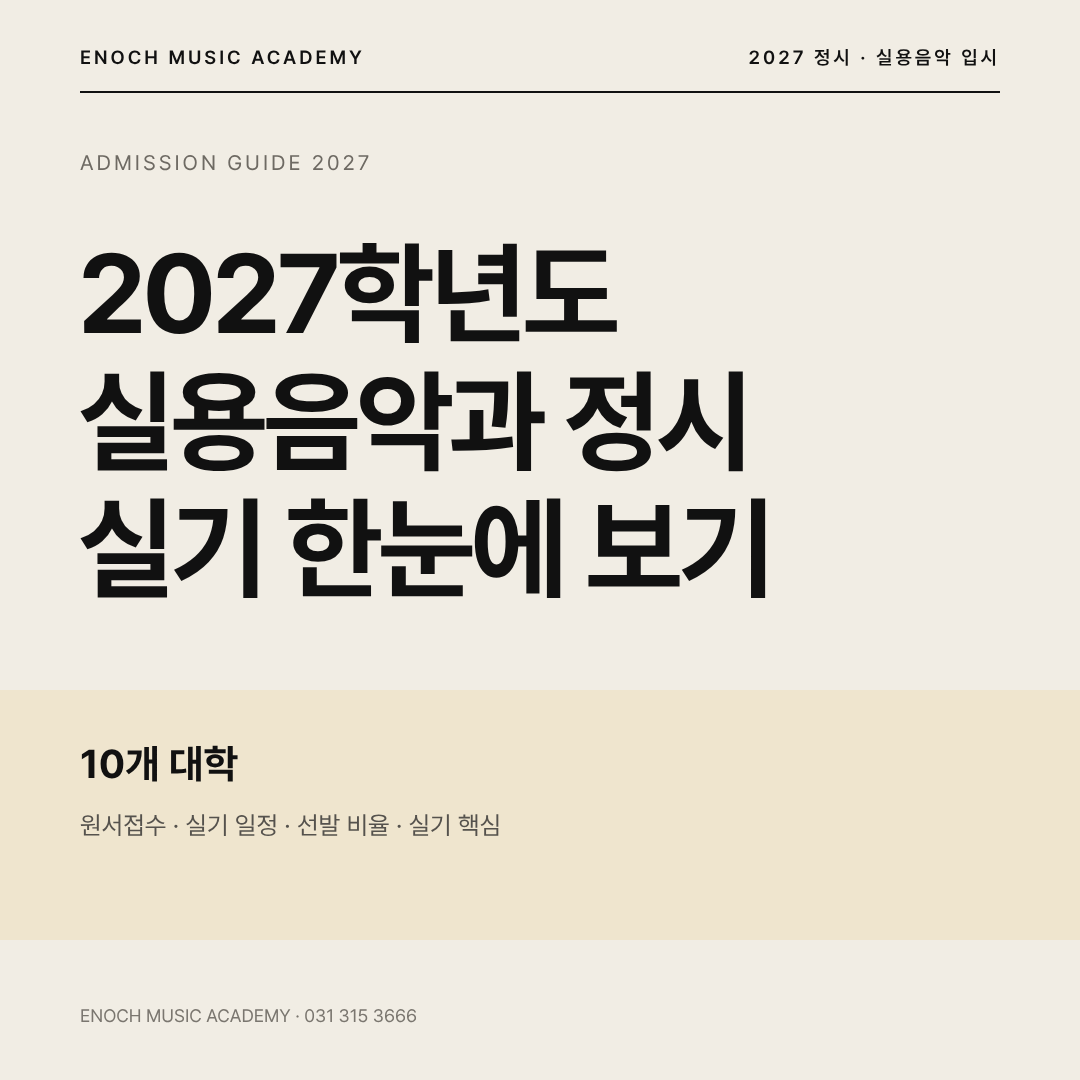
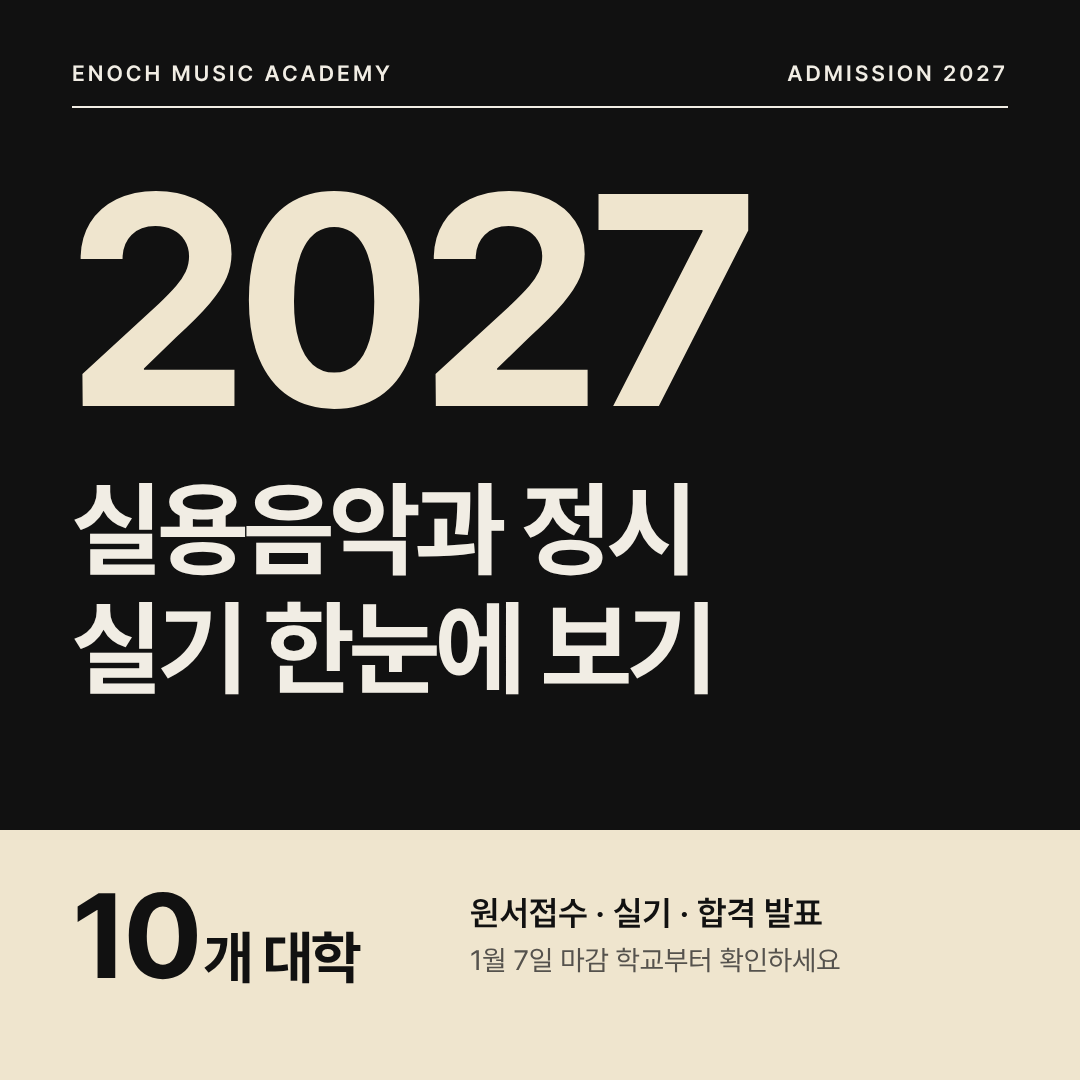
블로그 2027 정시: 눈에 띄는 1:1 썸네일
Claude-Session: https://claude.ai/code/session_01HGbZvgMeYrbU7mY8bwfjyb

diff --git a/output/블로그_2027정시일정/thumb.html b/output/블로그_2027정시일정/thumb.html
@@ -1,41 +1,22 @@
-<!doctype html><html lang="ko"><head><meta charset="utf-8"><title>2027 정시 썸네일</title><style>@font-face{font-family:P;src:url(../../templates/fonts/Pretendard-Light.woff2);font-weight:300}
+<!doctype html><html lang="ko"><head><meta charset="utf-8"><title>2027 정시 썸네일</title>
+<!-- 블로그 썸네일 1:1 — 검색 목록에서 작게 보여도 눈에 띄도록 큰 글자 · 강한 대비 -->
+<style>
 @font-face{font-family:P;src:url(../../templates/fonts/Pretendard-Regular.woff2);font-weight:400}
 @font-face{font-family:P;src:url(../../templates/fonts/Pretendard-SemiBold.woff2);font-weight:600}
 @font-face{font-family:P;src:url(../../templates/fonts/Pretendard-Bold.woff2);font-weight:700}
 *{margin:0;padding:0;box-sizing:border-box}
-body{background:#ccc}
-section{width:1080px;height:1350px;position:relative;overflow:hidden;background:#F1EDE4;color:#111;font-family:P,sans-serif;word-break:keep-all;margin-bottom:20px}
-.hd{position:absolute;left:80px;right:80px;top:46px;display:flex;justify-content:space-between;font-size:19px;font-weight:600;letter-spacing:3px;padding-bottom:22px;border-bottom:2px solid #111}
-.lb{position:absolute;left:80px;font-size:21px;font-weight:400;letter-spacing:3px;color:#6E6A63}
-.band{position:absolute;left:0;right:0;background:#EFE5CE}
-.nt{position:absolute;left:80px;right:80px;bottom:48px;display:flex;justify-content:space-between;align-items:flex-end;font-size:18px;color:#7A766F;line-height:1.7}
-.nt .pg{font-size:19px;letter-spacing:1px}
-/* cover */
-h1.t{position:absolute;left:78px;top:200px;font-size:104px;font-weight:700;letter-spacing:-4px;line-height:1.14}
-.grid{position:absolute;left:80px;right:80px;display:grid;grid-template-columns:1fr 1fr;column-gap:52px}
-.grid div{border-top:1.5px solid #8C877E;padding:14px 0 18px}
-.grid i{display:block;font-style:normal;font-size:16px;letter-spacing:2px;color:#55524D}
-.grid b{display:block;font-size:31px;font-weight:700;letter-spacing:-1px;margin-top:4px}
-.grid span{display:block;font-size:19px;color:#6E6A63;margin-top:4px}
-.sum{position:absolute;left:80px;font-size:25px;font-weight:600}
-/* school */
-.nm{position:absolute;left:78px;right:80px;top:180px;font-size:92px;font-weight:700;letter-spacing:-4px;line-height:1.1}
-.sub{position:absolute;left:80px;right:80px;top:296px;font-size:28px;color:#55524D}
-.dl{position:absolute;left:80px;top:356px;font-size:26px;font-weight:700}
-.dl em{font-style:normal;display:inline-block;width:10px;height:10px;background:#111;margin-right:12px;vertical-align:4px}
-table{position:absolute;left:80px;right:80px;width:920px;border-collapse:collapse}
-td{border-top:1.5px solid #8C877E;padding:17px 0 18px;vertical-align:top;font-size:28px;line-height:1.38}
-td.k{width:170px;font-size:16px;letter-spacing:2px;color:#55524D;padding-top:24px}
-td.v{font-weight:700}
-td small{display:block;font-size:21px;font-weight:400;color:#55524D;margin-top:4px}
-.pt{position:absolute;left:80px;right:80px}
-.pt .k{font-size:16px;letter-spacing:2px;color:#55524D;margin-bottom:14px}
-.pt li{list-style:none;font-size:27px;font-weight:400;line-height:1.45;padding-left:24px;position:relative;margin-top:8px}
-.pt li::before{content:"";position:absolute;left:0;top:16px;width:8px;height:8px;border-radius:50%;background:#111}
-</style></head><body><section style="height:1080px"><div class="hd"><span>ENOCH MUSIC ACADEMY</span><span>2027 정시 · 실용음악 입시</span></div>
-<div class="lb" style="top:150px">ADMISSION GUIDE 2027</div>
-<h1 class="t" style="top:230px;font-size:112px">2027학년도<br>실용음악과 정시<br>실기 한눈에 보기</h1>
-<div class="band" style="top:690px;height:250px"></div>
-<div class="sum" style="top:740px;font-size:40px;font-weight:700">10개 대학</div>
-<div class="sum" style="top:810px;font-weight:400;color:#55524D">원서접수 · 실기 일정 · 선발 비율 · 실기 핵심</div>
-<div class="nt"><span>ENOCH MUSIC ACADEMY · 031 315 3666</span><span></span></div></section></body></html>
+section{width:1080px;height:1080px;position:relative;overflow:hidden;background:#111;color:#F1EDE4;font-family:P,sans-serif;word-break:keep-all}
+.hd{position:absolute;left:72px;right:72px;top:60px;display:flex;justify-content:space-between;font-size:22px;font-weight:600;letter-spacing:3px;padding-bottom:20px;border-bottom:2px solid #F1EDE4}
+.yr{position:absolute;left:66px;top:150px;font-size:300px;font-weight:700;letter-spacing:-14px;line-height:1;color:#EFE5CE}
+.t{position:absolute;left:72px;top:470px;font-size:104px;font-weight:700;letter-spacing:-4px;line-height:1.14}
+.bar{position:absolute;left:0;right:0;bottom:0;height:250px;background:#EFE5CE;color:#111}
+.n{position:absolute;left:72px;top:46px;font-size:120px;font-weight:700;letter-spacing:-5px;line-height:1}
+.n small{font-size:58px;letter-spacing:-2px;margin-left:6px}
+.s{position:absolute;left:470px;right:72px;top:58px;font-size:34px;font-weight:600;line-height:1.5}
+.s span{display:block;font-weight:400;font-size:28px;color:#55524D}
+</style></head><body><section>
+<div class="hd"><span>ENOCH MUSIC ACADEMY</span><span>ADMISSION 2027</span></div>
+<div class="yr">2027</div>
+<div class="t">실용음악과 정시<br>실기 한눈에 보기</div>
+<div class="bar"><div class="n">10<small>개 대학</small></div><div class="s">원서접수 · 실기 · 합격 발표<span>1월 7일 마감 학교부터 확인하세요</span></div></div>
+</section></body></html>

diff --git a/output/블로그_2027정시일정/cards.py b/output/블로그_2027정시일정/cards.py
@@ -115,6 +115,5 @@ def cover(sq=False):
 html = f'<!doctype html><html lang="ko"><head><meta charset="utf-8"><title>2027 정시 학교별 카드</title><style>{CSS}</style></head><body>\n'
 html += cover() + ''.join(card(i + 2, r) for i, r in enumerate(D)) + '</body></html>\n'
 open(os.path.join(HERE, 'blog.html'), 'w', encoding='utf-8').write(html)
-open(os.path.join(HERE, 'thumb.html'), 'w', encoding='utf-8').write(
-    f'<!doctype html><html lang="ko"><head><meta charset="utf-8"><title>2027 정시 썸네일</title><style>{CSS}</style></head><body>{cover(True)}</body></html>\n')
+# thumb.html은 별도 파일(눈에 띄는 1:1 썸네일)로 관리
 print('blog.html', N, '장 + thumb.html')
